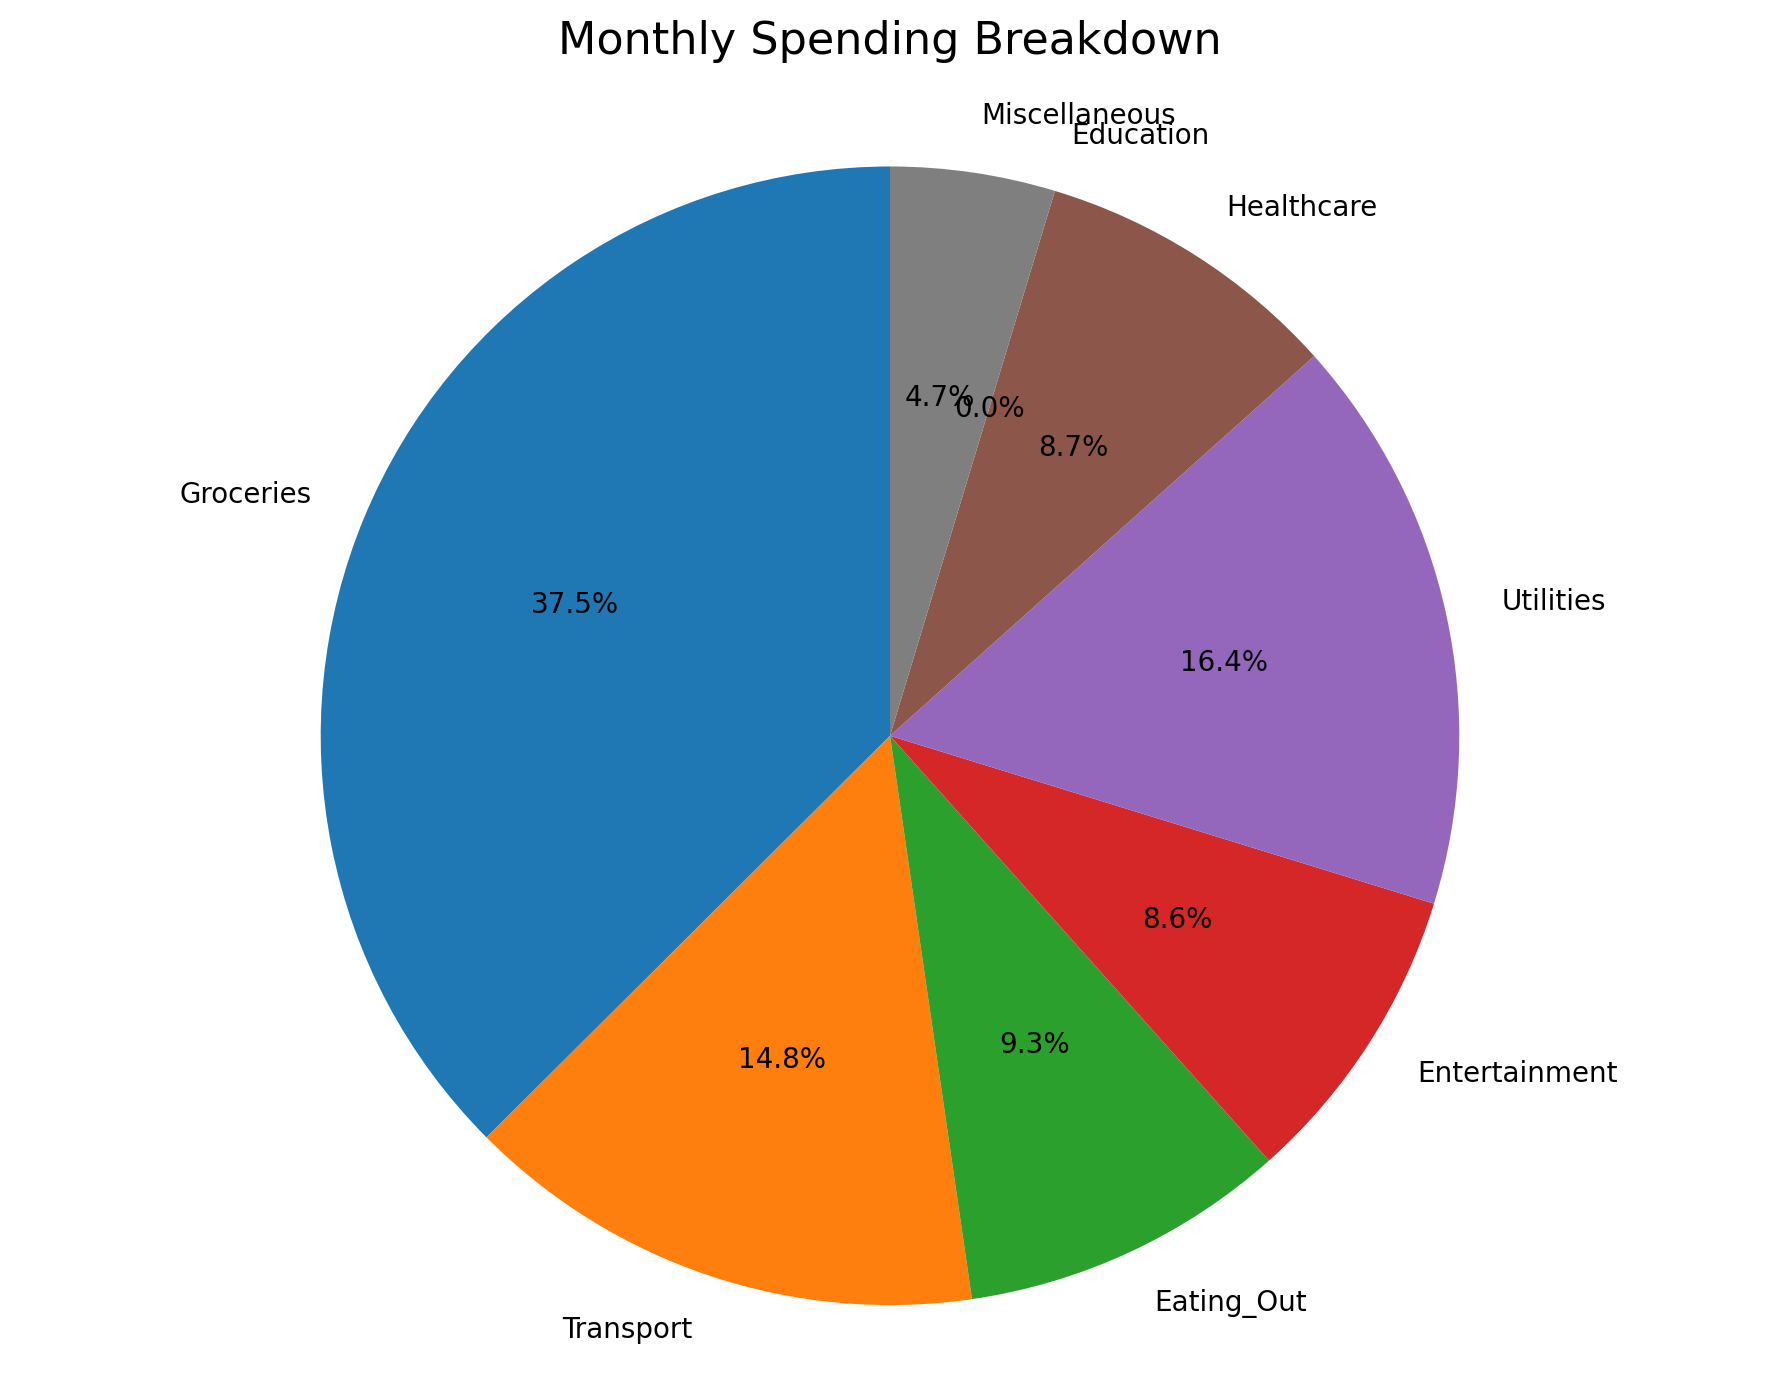
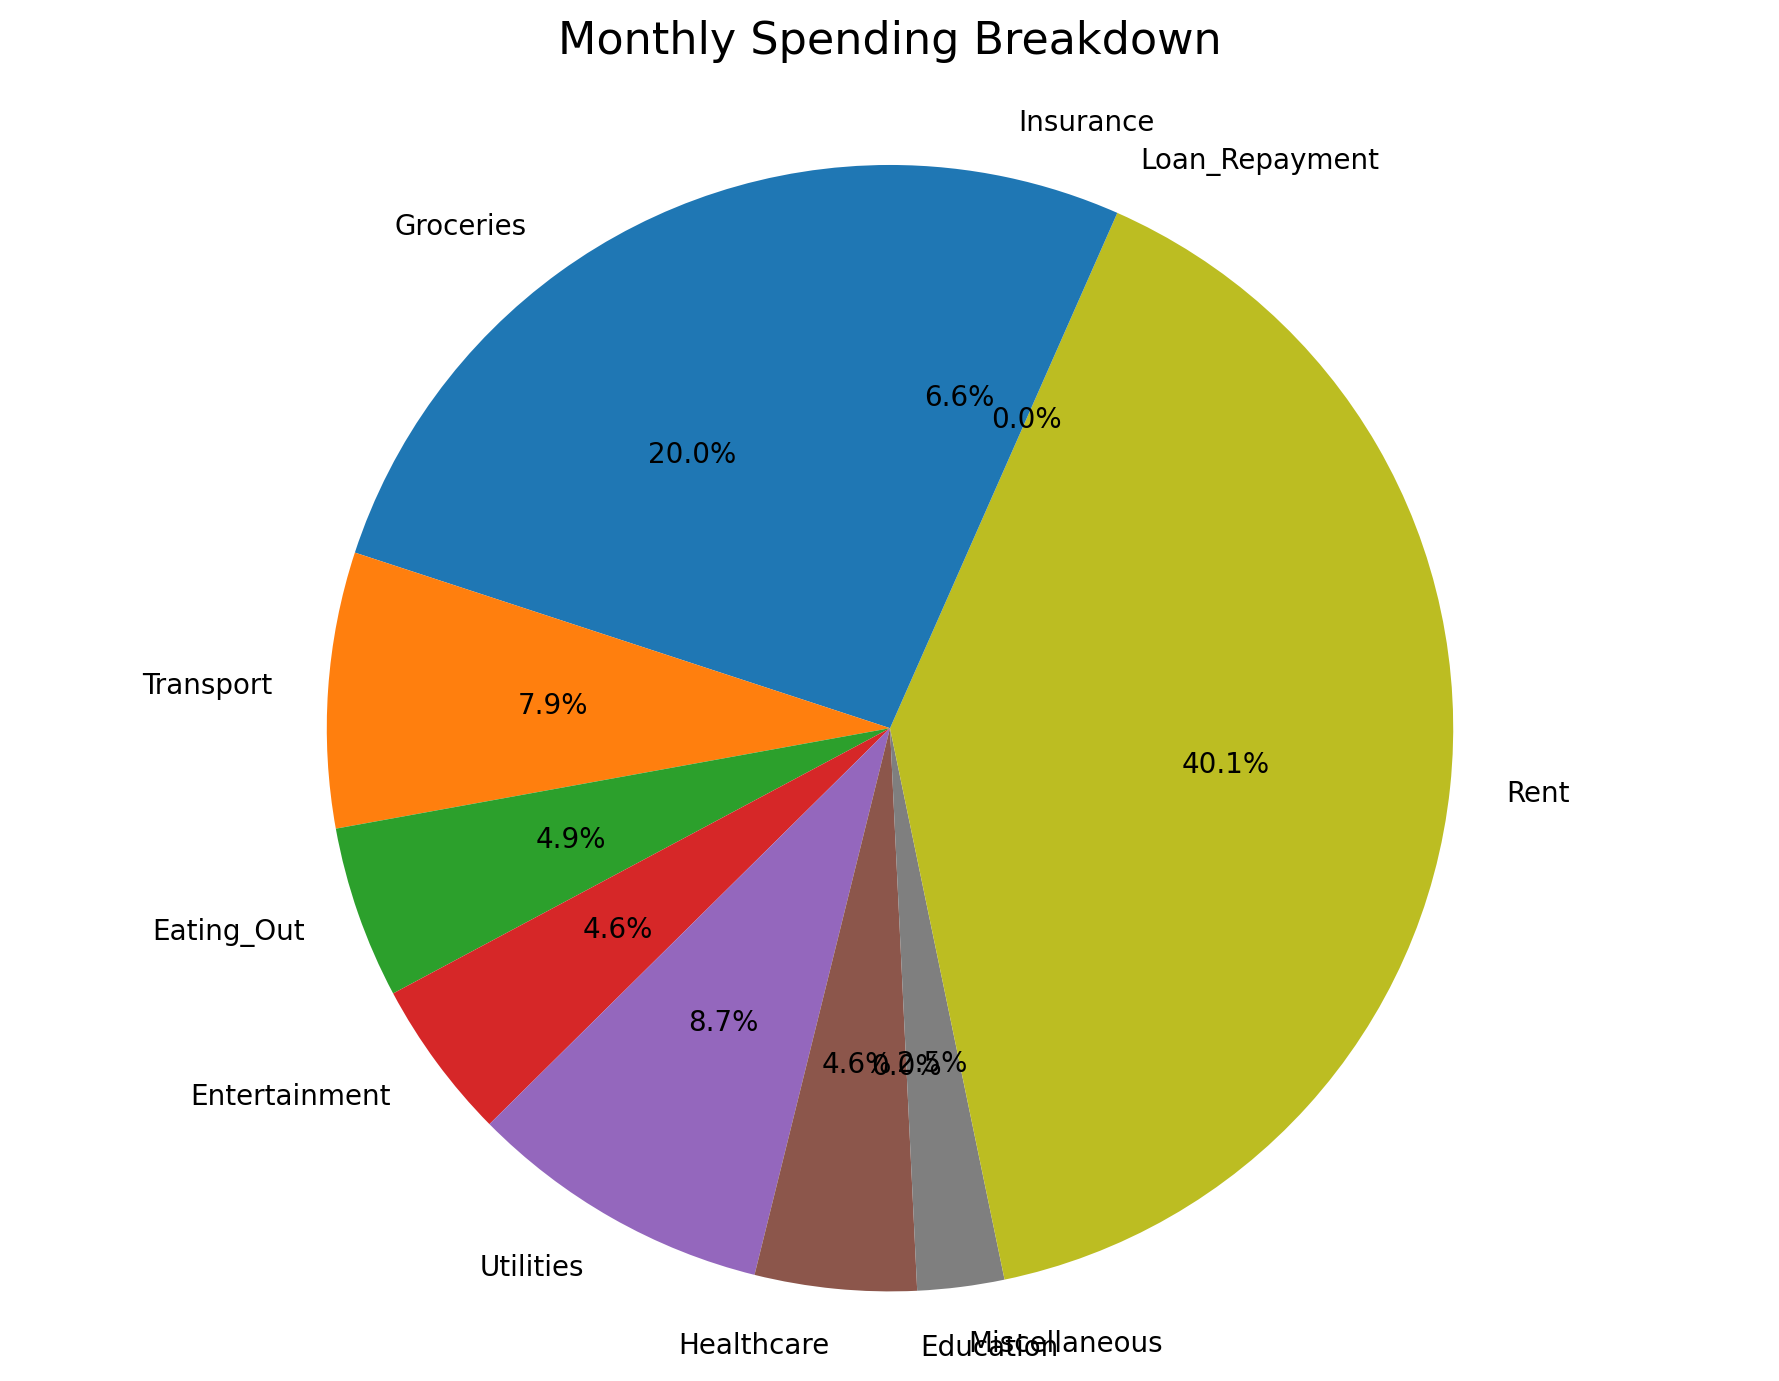
added modules 5,6,7 and also run API tests

diff --git a/core/views.py b/core/views.py
@@ -8,6 +8,11 @@ from ml.multi_modal_input import process_inputs  # Adjust path
 from django.contrib.auth.models import User
 from ml.analytics import generate_analytics, generate_pdf_report
 from django.http import FileResponse
+from ml.inflation_forecast import forecast_expenses
+from ml.investment_insights import investment_insights
+from ml.chatbot import chatbot_query
+from django.contrib.auth import authenticate, login
+from django.shortcuts import render, redirect
 # Your budget logic (copy from ml/budget_initialization.py or import)
 def initialize_budget(income, fixed_expenses_dict, savings_percentage, user_data_file='ml/data.csv'):  # Adjust path if needed
     df = pd.read_csv(user_data_file)
@@ -30,7 +35,9 @@ def initialize_budget(income, fixed_expenses_dict, savings_percentage, user_data
 class BudgetInitView(APIView):
     def post(self, request):
         # Assume authenticated user (add auth later)
-        user = request.user  # Or request.data['user_id'] for testing
+        user = User.objects.first()  # Use superuser for testing
+        if not user:
+            return Response({"error": "No users — run createsuperuser"}, status=400)
         
         # Get inputs from Flutter POST
         income = float(request.data.get('income', 0))
@@ -100,3 +107,60 @@ class ReportView(APIView):
         analytics = generate_analytics(request.user.id if request.user.is_authenticated else None)
         pdf_path = generate_pdf_report(analytics)
         return FileResponse(open(pdf_path, 'rb'), as_attachment=True, filename='spending_report.pdf')
+    
+class InflationForecastView(APIView):
+    def get(self, request):
+        # Use sample or from DB/user spending (for prototype, use sample)
+        sample_spending = {"Groceries": 6659, "Transport": 2637, "Eating_Out": 1652,
+                           "Entertainment": 1536, "Utilities": 2912, "Healthcare": 1547,
+                           "Education": 0, "Miscellaneous": 832}
+        result = forecast_expenses(sample_spending)
+        return Response(result)
+    
+class InvestmentView(APIView):
+    def get(self, request):
+        savings = 15000  # Sample — later from user budget/DB
+        result = investment_insights(savings)
+        return Response(result)
+
+class ChatbotView(APIView):
+    def post(self, request):
+        query = request.data.get('query', '')
+        user_id = request.user.id if request.user.is_authenticated else None
+        response = chatbot_query(query, user_id)
+        return Response({"response": response})
+
+def login_view(request):
+    if request.method == 'POST':
+        username = request.POST['username']
+        password = request.POST['password']
+        user = authenticate(request, username=username, password=password)
+        if user is not None:
+            login(request, user)
+            return redirect('dashboard')
+        else:
+            return render(request, 'login.html', {'error': 'Invalid credentials'})
+    return render(request, 'login.html')
+
+def face_login_simulate(request):
+    # Simulate face login — auto-login first user
+    user = User.objects.first()
+    login(request, user)
+    return redirect('dashboard')
+
+from django.contrib.auth.decorators import login_required
+
+@login_required
+def dashboard(request):
+    analytics = generate_analytics(request.user.id if request.user.is_authenticated else None)
+    inflation = forecast_expenses(analytics['summary'])
+    investment = investment_insights(analytics['potential_savings'])
+    
+    context = {
+        'analytics': analytics,
+        'inflation': inflation,
+        'investment': investment['advice'],
+        'market': investment['market_data'],
+        'categories': list(analytics['summary'].keys())
+    }
+    return render(request, 'dashboard.html', context)

diff --git a/ml/inflation_forecast.py b/ml/inflation_forecast.py
@@ -1,25 +1,45 @@
-# inflation_forecast.py
 import requests
-import numpy as np
+import os
 
 def get_pakistan_inflation_rate():
-    # Use API for real-time (or hardcode for prototype)
-    try:
-        url = "https://api.api-ninjas.com/v1/inflation?country=pakistan"  # Free API (sign up for key)
-        headers = {'X-Api-Key': 'YOUR_API_KEY'}  # Get free key from api-ninjas.com
-        response = requests.get(url, headers=headers)
-        data = response.json()
-        rate = data[0]['yearly_rate_pct'] if data else 9.5  # Default 9.5%
-    except:
-        rate = 9.5  # Default for prototype
-    return rate / 100  # As decimal
+    # Latest from searches (Dec 2025: 5.6%, 2026 forecast ~6%)
+    current_rate = 5.6  # Dec 2025 actual
+    forecast_2026 = 6.0  # Average forecast for FY26
+    return {"current": current_rate, "forecast_2026": forecast_2026}
 
-def forecast_expenses(current_spending, months=12):
-    rate = get_pakistan_inflation_rate()
-    future = current_spending * ((1 + rate) ** (months / 12))
-    return future
+def forecast_expenses(current_spending_dict, months=12):
+    rates = get_pakistan_inflation_rate()
+    forecast_rate = rates["forecast_2026"] / 100  # Decimal
+    
+    # Category-specific multipliers (food inflates more)
+    multipliers = {
+        'Groceries': 1.3, 'Eating_Out': 1.2, 'Transport': 1.1,
+        'Utilities': 1.15, 'Healthcare': 1.1, 'default': 1.0
+    }
+    
+    forecasted = {}
+    for cat, amount in current_spending_dict.items():
+        mult = multipliers.get(cat, multipliers['default'])
+        future = amount * ((1 + forecast_rate * mult) ** (months / 12))
+        forecasted[cat] = round(future, 2)
+    
+    total_current = sum(current_spending_dict.values())
+    total_future = sum(forecasted.values())
+    
+    return {
+        "current_total": round(total_current, 2),
+        "forecast_total": round(total_future, 2),
+        "increase_percent": round(((total_future - total_current) / total_current) * 100, 1),
+        "forecasted_spending": forecasted,
+        "inflation_info": f"Based on Dec 2025 rate {rates['current']}% and 2026 forecast ~{rates['forecast_2026']}%. Food categories adjusted higher."
+    }
 
-# Test for prototype
-current = 50000  # Monthly spending
-future = forecast_expenses(current)
-print(f"Current Rs 50,000/month → Rs {future:,.0f} in 12 months due to inflation")
+# Test
+if __name__ == "__main__":
+    sample_spending = {
+        "Groceries": 6659, "Transport": 2637, "Eating_Out": 1652,
+        "Entertainment": 1536, "Utilities": 2912, "Healthcare": 1547,
+        "Education": 0, "Miscellaneous": 832
+    }
+    result = forecast_expenses(sample_spending)
+    print(result)

diff --git a/ml/investment_insights.py b/ml/investment_insights.py
@@ -1,38 +1,34 @@
-# investment_insights.py
 import requests
 
-def get_investment_data():
-    # Gold price (Rs/gram) from API
+def get_market_data():
     try:
-        url = "https://api.metalpriceapi.com/v1/latest?api_key=YOUR_KEY&base=PKR&currencies=XAU"  # Free API key from metalpriceapi.com
-        response = requests.get(url)
-        data = response.json()
-        gold_rate = data['rates']['XAUPKR'] if 'rates' in data else 18000  # Default
+        # Gold in PKR (from coingecko proxy or hardcode latest)
+        gold_url = "https://api.coingecko.com/api/v3/simple/price?ids=gold&vs_currencies=pkr"
+        btc_url = "https://api.coingecko.com/api/v3/simple/price?ids=bitcoin&vs_currencies=pkr"
+        gold = requests.get(gold_url).json().get('gold', {}).get('pkr', 22000)  # gram approx
+        btc = requests.get(btc_url).json().get('bitcoin', {}).get('pkr', 18000000)
     except:
-        gold_rate = 18000
-    
-    # Crypto (Bitcoin in PKR)
-    try:
-        url = "https://api.coingecko.com/api/v3/simple/price?ids=bitcoin&vs_currencies=pkr"
-        response = requests.get(url)
-        btc_rate = response.json()['bitcoin']['pkr']
-    except:
-        btc_rate = 18000000  # Default
-    
-    return gold_rate, btc_rate
+        gold = 22000  # fallback
+        btc = 18000000
+    return {"gold_per_gram_pkr": gold, "bitcoin_pkr": btc}
 
-def give_investment_advice(savings_rate):
-    gold, btc = get_investment_data()
-    if savings_rate > 30:
-        advice = "Excellent savings! Invest in Meezan Islamic Fund or NBP Stock Fund."
-    elif savings_rate > 20:
-        advice = "Good savings! Start with HBL Money Market Fund (low risk)."
+def investment_insights(savings_amount):
+    market = get_market_data()
+    if savings_amount > 20000:
+        advice = "Strong savings! Consider Meezan Gold Fund or NBP Islamic Stock Fund."
+    elif savings_amount > 10000:
+        advice = "Good start! Try HBL Money Market Fund (low risk)."
     else:
-        advice = "Focus on saving more. Consider Roshan Digital Account for starters."
+        advice = "Focus on building savings. Start with Roshan Digital Account."
     
-    advice += f"\nCurrent rates: Gold Rs {gold}/gram | Bitcoin Rs {btc}"
-    return advice
+    advice += f"\nCurrent rates: Gold ~Rs {market['gold_per_gram_pkr']}/gram | Bitcoin ~Rs {market['bitcoin_pkr']:,}"
+    
+    return {
+        "advice": advice,
+        "market_data": market,
+        "savings_amount_used": savings_amount
+    }
 
-# Test for prototype
-savings_rate = 25  # Example %
-print(give_investment_advice(savings_rate))
+# Test
+if __name__ == "__main__":
+    print(investment_insights(15000))

diff --git a/ml/chatbot.py b/ml/chatbot.py
@@ -1,0 +1,45 @@
+from ml.analytics import generate_analytics
+from ml.inflation_forecast import forecast_expenses
+from ml.investment_insights import investment_insights
+
+def chatbot_query(query, user_id=None):
+    query = query.lower().strip()
+    
+    analytics = generate_analytics(user_id)
+    
+    if "spend" in query or "spent" in query or "expense" in query:
+        if "groceries" in query or "food" in query:
+            amount = analytics['summary']['Groceries']
+            return f"You spent Rs {amount:.2f} on Groceries this month."
+        elif "transport" in query:
+            amount = analytics['summary']['Transport']
+            return f"You spent Rs {amount:.2f} on Transport this month."
+        else:
+            total = analytics['total_spend']
+            return f"Your total spending this month is Rs {total:.2f}."
+    
+    if "savings" in query or "save" in query:
+        savings = analytics['potential_savings']
+        return f"You could potentially save Rs {savings:.2f} by optimizing your spending!"
+    
+    if "inflation" in query or "future" in query or "next year" in query:
+        sample_spending = analytics['summary']
+        forecast = forecast_expenses(sample_spending)
+        return f"With current inflation trends, your expenses may rise by {forecast['increase_percent']}%. Total spending could be Rs {forecast['forecast_total']:.2f} in 12 months."
+    
+    if "investment" in query or "invest" in query:
+        savings = analytics['potential_savings']
+        insights = investment_insights(savings)
+        return insights['advice']
+    
+    if "tip" in query or "advice" in query:
+        return "Tip: Track daily expenses and aim to keep discretionary spending (eating out, entertainment) under 20% of your budget."
+    
+    return "I'm your FinWise assistant! Ask me about spending, savings, inflation, investments, or tips."
+
+# Test
+if __name__ == "__main__":
+    print(chatbot_query("How much did I spend on food?"))
+    print(chatbot_query("What is my potential savings?"))
+    print(chatbot_query("What about inflation next year?"))
+    print(chatbot_query("Give me an investment tip"))

diff --git a/ml/analytics.py b/ml/analytics.py
@@ -28,16 +28,26 @@ def generate_analytics(user_id=None, user_data_file=None):
     else:
         user_row = df.iloc[0]  # Default: first row
 
-    # Spending by category
-    categories = ['Groceries', 'Transport', 'Eating_Out', 'Entertainment',
-                  'Utilities', 'Healthcare', 'Education', 'Miscellaneous']
+    # Spending by category - use only columns that exist in data.csv
+    all_possible_categories = ['Groceries', 'Transport', 'Eating_Out', 'Entertainment', 'Utilities', 
+                           'Healthcare', 'Education', 'Miscellaneous', 'Rent', 'Loan_Repayment', 
+                           'Insurance', 'Shopping', 'Travel', 'Subscriptions', 'Gym/Fitness']
+
+# Filter to only columns that exist in the CSV
+    categories = [cat for cat in all_possible_categories if cat in df.columns]
+
+# If no categories found, fallback to all numeric columns (safety)
+    if not categories:
+       categories = df.select_dtypes(include=['float64', 'int64']).columns.tolist()
+
+    print(f"Using categories: {categories}")  # For debugging
     spending = user_row[categories].values
     total_spend = np.sum(spending)
     summary = {cat: float(val) for cat, val in zip(categories, spending)}  # Ensure float
 
     # Potential savings
-    potential_cols = [f'Potential_Savings_{cat}' for cat in categories]
-    potential_savings = user_row[potential_cols].sum()
+    potential_cols = [f'Potential_Savings_{cat}' for cat in categories if f'Potential_Savings_{cat}' in df.columns]
+    potential_savings = user_row[potential_cols].sum() if potential_cols else 0.0
 
     # Chart path — save in project root
     project_root = os.path.abspath(os.path.join(os.path.dirname(os.path.abspath(__file__)), '..'))

diff --git a/core/urls.py b/core/urls.py
@@ -1,9 +1,16 @@
 from django.urls import path
-from .views import BudgetInitView,ExpenseInputView,AnalyticsView,ReportView
-
+from .views import  BudgetInitView,ExpenseInputView,AnalyticsView,ReportView,InflationForecastView,InvestmentView,ChatbotView
+from django.contrib.auth.views import LogoutView
 urlpatterns = [
+    #path('login/', login_view, name='login'),
+    #path('face-login/', face_login_simulate, name='face_login'),
+    #path('dashboard/', dashboard, name='dashboard'),
+    #path('logout/', LogoutView.as_view(), name='logout'),
     path('api/budget/init/', BudgetInitView.as_view(), name='budget_init'),
     path('api/expenses/input/', ExpenseInputView.as_view(), name='expenses_input'),
     path('api/analytics/', AnalyticsView.as_view(), name='analytics'),
     path('api/report/', ReportView.as_view(), name='report'),
+    path('api/inflation/', InflationForecastView.as_view(), name='inflation'),
+    path('api/investment/', InvestmentView.as_view(), name='investment'),
+    path('api/chatbot/', ChatbotView.as_view(), name='chatbot'),
 ]
